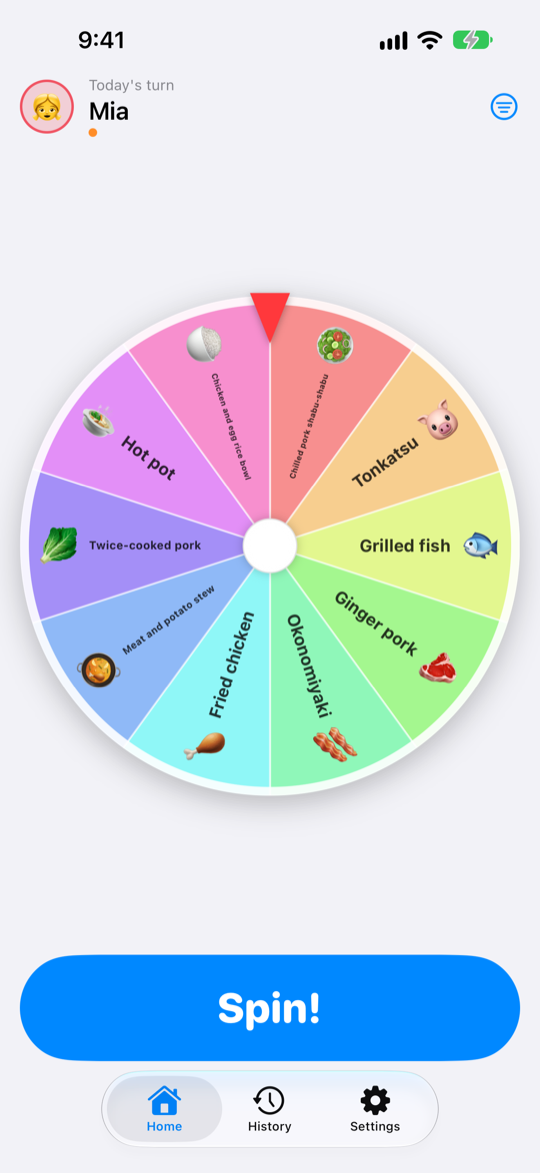
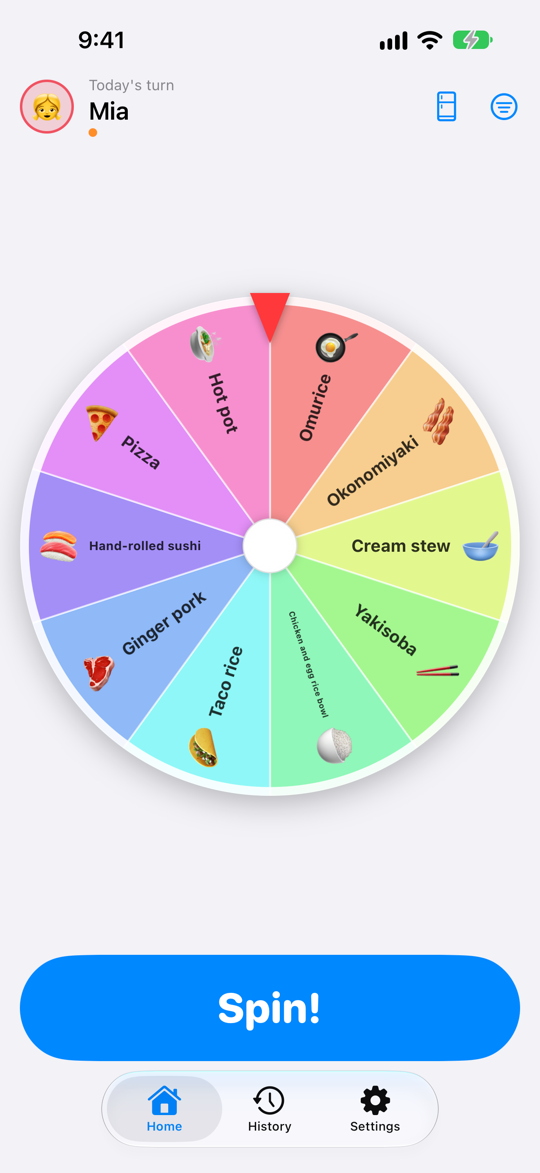
update

diff --git a/apps/menurette/privacy.html b/apps/menurette/privacy.html
@@ -118,12 +118,13 @@ permalink: /apps/menurette/privacy.html
     <h3>2. 端末内に保存するデータ</h3>
     <p>本アプリは、使うために必要な次のデータを、お使いの端末の中にだけ保存します。</p>
     <ul>
-      <li>メニュー（料理の名前・絵文字・ジャンル・主な食材・調理時間、有効／無効）</li>
+      <li>メニュー（料理の名前・絵文字・ジャンル・主な食材・使う食材・調理時間、有効／無効）</li>
       <li>家族のメンバー（名前・アバターの絵文字・テーマカラー・回す順番・「すき」な料理・その週に使った「やだ!」カードの数）</li>
       <li>決めた献立の履歴（日付・料理・回した人）</li>
       <li>設定（ルーレットのセグメント数、「やだ!」カードの回数、かぶり防止の日数、効果音・ハプティクスのオン／オフ）と、その日に「やだ!」で外した料理</li>
     </ul>
     <p>これらは端末内のデータベースと設定領域に保存され、<strong>iCloud を含め、端末の外へ同期・送信されることはありません</strong>。開発者がこれらのデータを見ることはできません。家族の名前はニックネームでもお使いいただけます。</p>
+    <p>冷蔵庫の画面で選んだ食材は保存されません。アプリを閉じるか献立を決めると消えます。</p>
     <p>なお、iOS の端末バックアップ（iCloud バックアップや Mac へのバックアップ）をお使いの場合、本アプリのデータもそのバックアップに含まれることがあります。これは Apple のバックアップ機能によるもので、開発者がアクセスすることはできません。</p>
 
     <h3>3. 端末の機能へのアクセス</h3>
@@ -141,7 +142,7 @@ permalink: /apps/menurette/privacy.html
     <p>App Store の「App のプライバシー」欄では<strong>「データの収集なし」</strong>と申告しており、アプリに同梱するプライバシーマニフェストの内容と一致します。</p>
 
     <h3>5. 子どものプライバシー</h3>
-    <p>本アプリは、小さなお子さまのいるご家族が一緒に使うことを想定した、年齢レーティング 4+ のアプリです。個人情報を収集しないため、お子さまから情報を収集することもありません。本アプリには広告も外部へのリンクもなく、メニューや家族の編集・設定の変更は、かんたんな計算問題に答えないと開けないようにしています。</p>
+    <p>本アプリは、小さなお子さまのいるご家族が一緒に使うことを想定した、年齢レーティング 4+ のアプリです。個人情報を収集しないため、お子さまから情報を収集することもありません。本アプリには広告も外部へのリンクもなく、</p>
 
     <h3>6. データの削除</h3>
     <p>メニュー・家族のメンバー・履歴は、それぞれアプリ内の一覧から削除できます。本アプリを端末から削除すると、端末内に保存されたすべてのデータが削除されます。開発者側に保存されているデータはありません。</p>
@@ -153,7 +154,7 @@ permalink: /apps/menurette/privacy.html
     <p>本ポリシーや本アプリのプライバシーに関するご質問は、以下までご連絡ください。</p>
     <ul>
       <li>開発者: Masamichi Ueta</li>
-      <li>お問い合わせフォーム: <a href="CONTACT_FORM_URL">こちら</a></li>
+      <li>お問い合わせフォーム: <a href="https://forms.gle/24M1LF1hoBcCB94p7">こちら</a></li>
     </ul>
 
     <hr>
@@ -168,12 +169,13 @@ permalink: /apps/menurette/privacy.html
     <h3>2. Data Stored on Your Device</h3>
     <p>The App keeps the following, which it needs to work, on your device only:</p>
     <ul>
-      <li>Dishes (name, emoji, cuisine, main ingredient, cooking time, and whether each is on the menu)</li>
+      <li>Dishes (name, emoji, cuisine, main ingredient, ingredients used, cooking time, and whether each is on the menu)</li>
       <li>Family members (name, avatar emoji, colour, turn order, favourite dishes, and how many "No thanks!" cards they used this week)</li>
       <li>The history of dinners you decided (date, dish, and who spun)</li>
       <li>Settings (slices on the wheel, "No thanks!" cards per week, repeat-free days, sound and haptics on or off) and the dishes turned down today</li>
     </ul>
     <p>These are kept in a database and in the settings storage on your device, and <strong>are never synced or sent off the device, iCloud included</strong>. The developer cannot see any of it. Nicknames work fine for family members.</p>
+    <p>The ingredients you pick on the fridge screen are not saved. They are cleared when the App closes or once dinner is decided.</p>
     <p>If you use iOS device backups (iCloud Backup or a backup to your Mac), the App's data may be included in them. That is Apple's backup feature, and the developer has no access to it.</p>
 
     <h3>3. Access to Device Features</h3>
@@ -191,7 +193,7 @@ permalink: /apps/menurette/privacy.html
     <p>The App's App Store privacy entry declares <strong>"Data Not Collected"</strong>, matching the privacy manifest bundled with the App.</p>
 
     <h3>5. Children's Privacy</h3>
-    <p>The App is rated 4+ and is made for families with young children to use together. Since it collects no personal information at all, it collects none from children either. The App has no advertising and no links out of it, and editing dishes or family members and changing settings require the answer to a simple sum.</p>
+    <p>The App is rated 4+ and is made for families with young children to use together. Since it collects no personal information at all, it collects none from children either. The App has no advertising and no links out of it.</p>
 
     <h3>6. Data Deletion</h3>
     <p>Dishes, family members and history entries can each be deleted from their lists in the App. Uninstalling the App removes everything it stored on your device. No data is held by the developer.</p>
@@ -203,14 +205,14 @@ permalink: /apps/menurette/privacy.html
     <p>For any questions about this policy or about privacy in the App, please contact:</p>
     <ul>
       <li>Developer: Masamichi Ueta</li>
-      <li>Contact form: <a href="CONTACT_FORM_URL">here</a></li>
+      <li>Contact form: <a href="https://forms.gle/24M1LF1hoBcCB94p7">here</a></li>
     </ul>
 
   <footer>
     <nav>
       <a href="/apps/menurette/">トップ / Home</a>
       <a href="/apps/menurette/support.html">サポート / Support</a>
-      <a href="CONTACT_FORM_URL">お問い合わせ / Contact</a>
+      <a href="https://forms.gle/24M1LF1hoBcCB94p7">お問い合わせ / Contact</a>
     </nav>
     <p class="copy">© 2026 Masamichi Ueta</p>
   </footer>

diff --git a/apps/menurette/support.html b/apps/menurette/support.html
@@ -129,7 +129,7 @@ permalink: /apps/menurette/support.html
 
     <h3>お問い合わせ</h3>
     <ul>
-      <li>お問い合わせは<a href="CONTACT_FORM_URL">お問い合わせフォーム</a>からお願いします。</li>
+      <li>お問い合わせは<a href="https://forms.gle/24M1LF1hoBcCB94p7">お問い合わせフォーム</a>からお願いします。</li>
       <li>個人開発のため、お返事までに数日いただくことがあります。あらかじめご了承ください。</li>
       <li>不具合のご連絡時は、端末モデル（例：iPhone 17 Pro）・iOS のバージョン・アプリのバージョンを添えていただけると助かります。</li>
     </ul>
@@ -155,7 +155,7 @@ permalink: /apps/menurette/support.html
     <p>ルーレットに載る料理は、最近食べたものほど出にくく、前日と同じジャンル・同じ食材も出にくく、家族の「すき」が多いほど出やすくなるように、裏側で選んでいます。ルーレットの上では同じ大きさに並ぶので、止まった場所がそのまま結果になります。</p>
 
     <h4>メニュー・家族・設定（おとな向け）</h4>
-    <p>「設定」タブは、かんたんな足し算に答えると開きます。お子さまがうっかりメニューを消してしまわないためのものです。</p>
+    <p>「設定」タブから、メニューや家族の編集、各種設定の変更ができます。</p>
     <ul>
       <li><strong>メニュー</strong> — 追加・編集・削除。左から右へスワイプすると「おやすみ」にでき、おやすみ中の料理はルーレットに載りません。料理ごとに、家族のだれの「すき」かを選べます。</li>
       <li><strong>家族</strong> — 追加・編集・削除・並べ替え。並び順が、回す順番です。</li>
@@ -174,6 +174,12 @@ permalink: /apps/menurette/support.html
 
       <dt>Q. 最近食べた料理がなかなか出ません</dt>
       <dd>A. かぶりを防ぐため、決めてから日が浅い料理ほど出にくくしています。「設定」→「かぶり防止の日数」を短くすると、早く出やすくなります。</dd>
+
+      <dt>Q. 冷蔵庫の食材を選んだのに、使わない料理も出ます</dt>
+      <dd>A. 冷蔵庫の食材は「絞り込み」ではなく「出やすくする」しくみです。選んだ食材を多く使う料理ほど候補に選ばれやすくなりますが、足りない食材がある料理も出ることがあります（買い足せば作れる料理として、結果の画面に「たりない」食材が出ます）。選んだ食材は保存されず、献立を決めるとリセットされます。</dd>
+
+      <dt>Q. 料理に使う食材を変えたい</dt>
+      <dd>A.「設定」→「メニュー」で料理をタップし、「使う食材」で選び直してください。冷蔵庫の食材とのくらべ方は、ここで選んだ食材をもとにしています。</dd>
 
       <dt>Q.「ルーレットが からっぽ」と出て回せません</dt>
       <dd>A. ルーレットには2品以上が必要です。条件をしぼっている場合は「じょうけんをクリア」を、その日の「やだ!」で全部外れた場合は「もう一度出す」をタップしてください。それ以外の場合は、「設定」→「メニュー」で、おやすみ中の料理を戻すか、料理を追加してください。</dd>
@@ -233,7 +239,7 @@ permalink: /apps/menurette/support.html
 
     <h3>Contact</h3>
     <ul>
-      <li>Please reach out via the <a href="CONTACT_FORM_URL">contact form</a>.</li>
+      <li>Please reach out via the <a href="https://forms.gle/24M1LF1hoBcCB94p7">contact form</a>.</li>
       <li>This is an indie project, so replies may take a few days. Thank you for your patience.</li>
       <li>When reporting an issue, please include your device model (e.g. iPhone 17 Pro), your iOS version, and the app version.</li>
     </ul>
@@ -258,8 +264,8 @@ permalink: /apps/menurette/support.html
     <h4>How the wheel is filled</h4>
     <p>Behind the scenes, dishes you had recently come up less often, so do dishes from the same cuisine or with the same main ingredient as yesterday, and family favourites come up more often. On the wheel itself every slice is the same size, so where it stops is what you get.</p>
 
-    <h4>Dishes, family and settings (for grown-ups)</h4>
-    <p>The Settings tab opens after a simple addition question. It's there so young children can't delete dishes by accident.</p>
+    <h4>Dishes, family and settings </h4>
+    <p>Dishes, family members and other settings are all under the Settings tab.</p>
     <ul>
       <li><strong>Dishes</strong> — add, edit and delete. Swipe right on a dish to pause it; paused dishes never land on the wheel. Each dish can be marked as a favourite of anyone in the family.</li>
       <li><strong>Family</strong> — add, edit, delete and reorder. The order is the turn order.</li>
@@ -278,6 +284,12 @@ permalink: /apps/menurette/support.html
 
       <dt>Q. A dish we had recently hardly ever comes up</dt>
       <dd>A. That's on purpose: the more recently a dish was decided, the less likely it is. Shorten Settings → Repeat-free days to let dishes come back sooner.</dd>
+
+      <dt>Q. I picked ingredients in the fridge, but dishes that don't use them still come up</dt>
+      <dd>A. The fridge nudges the draw rather than filtering it: dishes that use more of what you picked are likelier to be chosen for the wheel, but dishes missing an ingredient can still appear (the result screen lists what you still need). Your picks aren't saved and reset once dinner is decided.</dd>
+
+      <dt>Q. How do I change the ingredients a dish uses?</dt>
+      <dd>A. Go to Settings → Dishes, tap the dish, and change "Ingredients used". The fridge match is based on what you choose there.</dd>
 
       <dt>Q. It says "The wheel is empty" and won't spin</dt>
       <dd>A. The wheel needs at least two dishes. If a filter is on, tap "Clear filter"; if today's "No thanks!" cards took everything off, tap "Bring them back". Otherwise, resume a paused dish or add one under Settings → Dishes.</dd>
@@ -322,7 +334,7 @@ permalink: /apps/menurette/support.html
     <nav>
       <a href="/apps/menurette/">トップ / Home</a>
       <a href="/apps/menurette/privacy.html">プライバシー / Privacy</a>
-      <a href="CONTACT_FORM_URL">お問い合わせ / Contact</a>
+      <a href="https://forms.gle/24M1LF1hoBcCB94p7">お問い合わせ / Contact</a>
     </nav>
     <p class="copy">© 2026 Masamichi Ueta</p>
   </footer>

diff --git a/apps/menurette/index.html b/apps/menurette/index.html
@@ -8,7 +8,7 @@ permalink: /apps/menurette/
   <meta charset="utf-8">
   <meta name="viewport" content="width=device-width, initial-scale=1">
   <title>Menurette — 献立ルーレット</title>
-  <meta name="description" content="家族みんなでルーレットを回して、今日の晩ごはんを決めるアプリ。回すのは今日の当番の子。最近食べたものは出にくく、家族の好物は出やすく。広告・課金・アカウント登録なし。">
+  <meta name="description" content="家族みんなでルーレットを回して、今日の晩ごはんを決めるアプリ。回すのは今日の当番の子。冷蔵庫の食材からも回せて、最近食べたものは出にくく、家族の好物は出やすく。広告・課金・アカウント登録なし。">
   <meta name="robots" content="index, follow">
   <link rel="icon" type="image/png" href="/apps/menurette/assets/icon.png">
   <link rel="alternate" hreflang="ja" href="https://masamichiueta.github.io/apps/menurette/">
@@ -67,7 +67,7 @@ permalink: /apps/menurette/
                    "Helvetica Neue", "Hiragino Sans", "Yu Gothic", sans-serif;
       line-height: 1.6; -webkit-font-smoothing: antialiased; font-size: 17px;
     }
-    img { max-width: 100%; display: block; }
+    img { max-width: 100%; height: auto; display: block; }
     a { color: var(--link); text-decoration: none; }
     a:hover { text-decoration: underline; }
 
@@ -308,6 +308,23 @@ permalink: /apps/menurette/
 
     <div class="feature">
       <div>
+        <div class="glyph" style="background:linear-gradient(140deg,#64D2FF,#32ADE6)">
+          <svg width="30" height="30" viewBox="0 0 30 30" fill="none" aria-hidden="true"><rect x="8" y="3.5" width="14" height="23" rx="3" stroke="#fff" stroke-width="2.4"/><path d="M8 13h14M12 8v2.5M12 16.5v3" stroke="#fff" stroke-width="2.4" stroke-linecap="round"/></svg>
+        </div>
+        <h3>冷蔵庫の食材から回す</h3>
+        <p>冷蔵庫にあるものをタップで選ぶと、それを使う料理がルーレットに出やすくなります。絞り込みではないので、足りない食材があっても候補に残ります。</p>
+        <ul>
+          <li>結果の画面に「ある」「たりない」食材を表示。買い物の目安にも</li>
+          <li>選んだ食材は保存されず、献立を決めるとリセット</li>
+        </ul>
+      </div>
+      <div class="shot-col">
+        <img class="shot" src="/apps/menurette/assets/shot-fridge.png" alt="冷蔵庫の画面。豚肉・卵・玉ねぎ・にんじん・じゃがいもが選ばれている" width="540" height="1173" loading="lazy">
+      </div>
+    </div>
+
+    <div class="feature">
+      <div>
         <div class="glyph" style="background:linear-gradient(140deg,#FFD60A,#FF9F0A)">
           <svg width="30" height="30" viewBox="0 0 30 30" fill="none" aria-hidden="true"><path d="M15 4l3 7 7.5.6-5.7 4.9 1.8 7.4L15 20l-6.6 3.9 1.8-7.4-5.7-4.9L12 11z" stroke="#fff" stroke-width="2.3" stroke-linejoin="round"/></svg>
         </div>
@@ -387,13 +404,6 @@ permalink: /apps/menurette/
         </div>
         <h3>家族の「すき」</h3>
         <p>料理ごとに、だれの好物かを選べます。「すき」が多い料理ほど、ルーレットに載りやすくなります。</p>
-      </div>
-      <div class="box">
-        <div class="glyph" style="background:linear-gradient(140deg,#9E9EA6,#636366)">
-          <svg width="22" height="22" viewBox="0 0 30 30" fill="none" aria-hidden="true"><rect x="6" y="13" width="18" height="13" rx="3" stroke="#fff" stroke-width="2.4"/><path d="M10 13V9.5a5 5 0 0110 0V13" stroke="#fff" stroke-width="2.4"/></svg>
-        </div>
-        <h3>大人向けの設定は計算問題でガード</h3>
-        <p>メニューや家族の編集、設定の変更は、かんたんな足し算に答えないと開けません。子どもがうっかり消してしまう心配がありません。</p>
       </div>
       <div class="box">
         <div class="glyph" style="background:linear-gradient(140deg,#FFC873,#FF7A2F)">
@@ -506,7 +516,7 @@ permalink: /apps/menurette/
     <nav>
       <a href="/apps/menurette/support.html">サポート</a>
       <a href="/apps/menurette/privacy.html">プライバシーポリシー</a>
-      <a href="CONTACT_FORM_URL">お問い合わせ</a>
+      <a href="https://forms.gle/24M1LF1hoBcCB94p7">お問い合わせ</a>
       <a href="/apps/menurette/en/">English</a>
     </nav>
     <p class="copy">© 2026 Masamichi Ueta</p>

diff --git a/apps/menurette/en/index.html b/apps/menurette/en/index.html
@@ -8,7 +8,7 @@ permalink: /apps/menurette/en/
   <meta charset="utf-8">
   <meta name="viewport" content="width=device-width, initial-scale=1">
   <title>Menurette — Dinner Roulette</title>
-  <meta name="description" content="A dinner roulette for the whole family. The kids take turns to spin, recent meals come up less often, and family favourites more often. No ads, no in-app purchases, no account.">
+  <meta name="description" content="A dinner roulette for the whole family. The kids take turns to spin, it can start from what is in your fridge, recent meals come up less often, and family favourites more often. No ads, no in-app purchases, no account.">
   <meta name="robots" content="index, follow">
   <link rel="icon" type="image/png" href="/apps/menurette/assets/icon.png">
   <link rel="alternate" hreflang="ja" href="https://masamichiueta.github.io/apps/menurette/">
@@ -67,7 +67,7 @@ permalink: /apps/menurette/en/
                    "Helvetica Neue", "Hiragino Sans", "Yu Gothic", sans-serif;
       line-height: 1.6; -webkit-font-smoothing: antialiased; font-size: 17px;
     }
-    img { max-width: 100%; display: block; }
+    img { max-width: 100%; height: auto; display: block; }
     a { color: var(--link); text-decoration: none; }
     a:hover { text-decoration: underline; }
 
@@ -308,6 +308,23 @@ permalink: /apps/menurette/en/
 
     <div class="feature">
       <div>
+        <div class="glyph" style="background:linear-gradient(140deg,#64D2FF,#32ADE6)">
+          <svg width="30" height="30" viewBox="0 0 30 30" fill="none" aria-hidden="true"><rect x="8" y="3.5" width="14" height="23" rx="3" stroke="#fff" stroke-width="2.4"/><path d="M8 13h14M12 8v2.5M12 16.5v3" stroke="#fff" stroke-width="2.4" stroke-linecap="round"/></svg>
+        </div>
+        <h3>Cook from your fridge</h3>
+        <p>Tap what's in the fridge and the dishes that use it come up more often. It nudges the draw rather than filtering it, so a dish with a missing ingredient stays in.</p>
+        <ul>
+          <li>The result screen shows what you have and what you need</li>
+          <li>Your picks are not saved and reset once dinner is decided</li>
+        </ul>
+      </div>
+      <div class="shot-col">
+        <img class="shot" src="/apps/menurette/assets/shot-fridge-en.png" alt="The Fridge screen with pork, egg, onion, carrot and potato selected" width="540" height="1173" loading="lazy">
+      </div>
+    </div>
+
+    <div class="feature">
+      <div>
         <div class="glyph" style="background:linear-gradient(140deg,#FFD60A,#FF9F0A)">
           <svg width="30" height="30" viewBox="0 0 30 30" fill="none" aria-hidden="true"><path d="M15 4l3 7 7.5.6-5.7 4.9 1.8 7.4L15 20l-6.6 3.9 1.8-7.4-5.7-4.9L12 11z" stroke="#fff" stroke-width="2.3" stroke-linejoin="round"/></svg>
         </div>
@@ -387,13 +404,6 @@ permalink: /apps/menurette/en/
         </div>
         <h3>Family favourites</h3>
         <p>Mark whose favourite each dish is. The more fans a dish has, the more likely it lands on the wheel.</p>
-      </div>
-      <div class="box">
-        <div class="glyph" style="background:linear-gradient(140deg,#9E9EA6,#636366)">
-          <svg width="22" height="22" viewBox="0 0 30 30" fill="none" aria-hidden="true"><rect x="6" y="13" width="18" height="13" rx="3" stroke="#fff" stroke-width="2.4"/><path d="M10 13V9.5a5 5 0 0110 0V13" stroke="#fff" stroke-width="2.4"/></svg>
-        </div>
-        <h3>Grown-up settings behind a sum</h3>
-        <p>Editing dishes and family members, and changing settings, takes the answer to a simple addition — so little fingers can't delete anything by accident.</p>
       </div>
       <div class="box">
         <div class="glyph" style="background:linear-gradient(140deg,#FFC873,#FF7A2F)">
@@ -506,7 +516,7 @@ permalink: /apps/menurette/en/
     <nav>
       <a href="/apps/menurette/support.html#english">Support</a>
       <a href="/apps/menurette/privacy.html#english">Privacy Policy</a>
-      <a href="CONTACT_FORM_URL">Contact</a>
+      <a href="https://forms.gle/24M1LF1hoBcCB94p7">Contact</a>
       <a href="/apps/menurette/">日本語</a>
     </nav>
     <p class="copy">© 2026 Masamichi Ueta</p>
